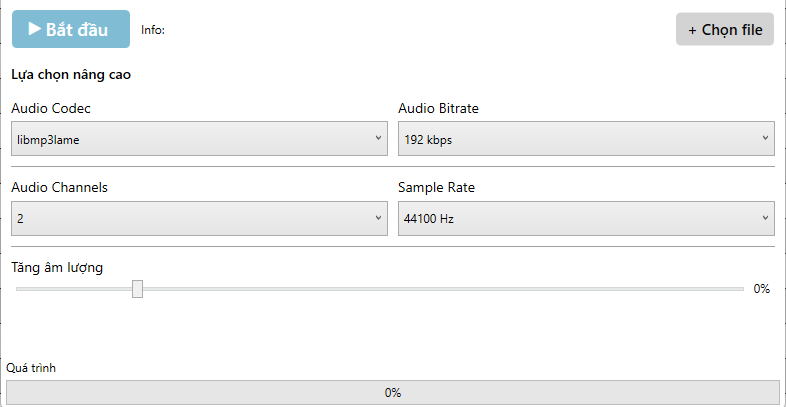
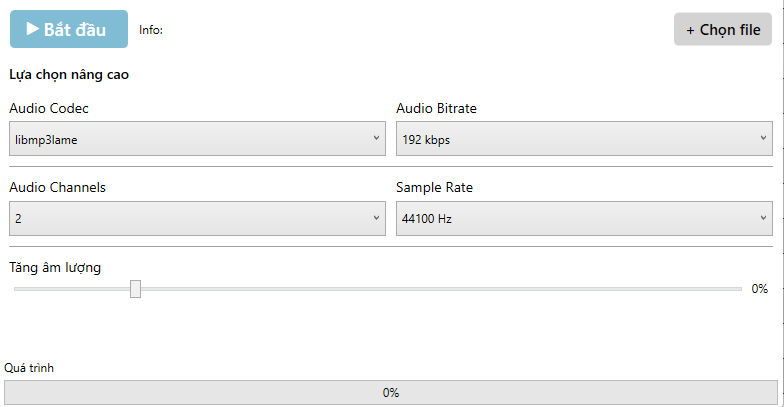
edit numer titile

diff --git a/docs/tutorial-basics/6-review-manga.md b/docs/tutorial-basics/6-review-manga.md
@@ -10,12 +10,12 @@ Tạo video từ ảnh của 1 chap *truyện tranh* hoặc ảnh bất kỳ
 
 #### *Hình 1 - Giao diện review truyện tranh*
 
-## I. Tạo item
-###    1. Add item
+## 1. Tạo item
+###    1.1 Add item
         - Menu **Công cụ** -> **Thêm item**
             - Nhập số lượng item cần thêm
             - Click OK
-###     2. Text
+###     1.2 Text
         - Click vào từng item ở bảng list item
         - Tạo text
             - Lấy text từ ảnh (nhập thủ công *hoặc* nhận diện text bằng AI)
@@ -24,8 +24,8 @@ Tạo video từ ảnh của 1 chap *truyện tranh* hoặc ảnh bất kỳ
 :::note[Chú ý]
 - Sau khi dịch, bạn cần review lại bản dịch để confirm lại
 :::
-## II. Edit ảnh
-###     1. Vẽ khung chat
+## 2. Edit ảnh
+###     2.1 Bằng VMVA
         - Ở hình 1, click vào item cần edit
         - Click **Vẽ khung chat**
 
@@ -43,30 +43,32 @@ Tạo video từ ảnh của 1 chap *truyện tranh* hoặc ảnh bất kỳ
  - Khung chat sau sẽ đè lên khung chat phía trước nếu bạn di chuyển chúng vào vị trí của nhau
 :::
 
-## III. Tạo audio
+###     2.2 Bằng các phần mềm khác
+        - Bạn có thể edit ảnh bằng các phần mềm khác, copy và paste trực tiếp vào item đang làm việc
 
-###     1. Tải audio
-        - Click vào item ở hình 1, ở trường **Chọn giọng TTK**, click vào ⋮ và áp dụng cho *tất cả* hoặc chọn *các item* tùy ý
-        - Chọn clone nếu như bạn muốn custom sang 1 giọng khác
-        - Menu **Audio** -> **Download Audio**
-        - Tải audio: bạn có thể chọn tốc độ phù hợp với nhu cầu của mình để download
+## 3. Audio
 
-        ![Lyric](/img/common/download-audio.png)
+- Click vào item ở hình 1, ở trường **Chọn giọng TTK**, click vào ⋮ và áp dụng cho *tất cả* hoặc chọn *các item* tùy ý
+- Chọn clone nếu như bạn muốn custom sang 1 giọng khác
+- Menu **Audio** -> **Download Audio**
+- Tải audio: bạn có thể chọn tốc độ phù hợp với nhu cầu của mình để download
 
-        **Hình 3 - Cửa sổ download audio**
+![Lyric](/img/common/download-audio.png)
 
-## IV. Export video
-###     1. Chọn hiệu ứng cho từng ảnh
+**Hình 3 - Cửa sổ download audio**
+
+## 4. Export video
+###     4.1 Chọn hiệu ứng cho từng ảnh
         - None
         - Left slide
         - Right slide
         - Zoom
         - Scroll
         - ...
-###     2. Setting
+###     4.2 Setting
         - Chọn background, opacity
         - Chọn nhạc nền, âm lượng
-###     3. Export
+###     4.3 Export
         - Chọn sử dụng GPU hoặc không
         - ~~Tách vocal~~ (không khả dụng ở template này)
 

diff --git a/docs/tutorial-basics/5-thuyet-minh.md b/docs/tutorial-basics/5-thuyet-minh.md
@@ -10,9 +10,9 @@ Dịch và lồng tiếng phim từ ngôn ngữ này <i class="fa-solid fa-arrow
 
 #### *Hình 1 - Giao diện template thuyết minh phim*
 
-## I. Dịch phim
+## 1. Dịch phim
 
-### 1. Lấy lyric 
+### 1.1 Lấy lyric 
     - Tự động
         - Ở Menu **Lyric gốc** -> **Tạo tự động**. Thư viện sẽ tạo generate ra file `.srt` và tự động import vào project
     - Upload từ máy tính
@@ -20,7 +20,7 @@ Dịch và lồng tiếng phim từ ngôn ngữ này <i class="fa-solid fa-arrow
 :::note    
 Chương trình sẽ xóa bỏ 1 số dòng bị duplicate <i class="fa-solid fa-arrow-right"></i> tránh audio bị đè lên nhau
 :::
-### 2. Dịch
+### 1.2 Dịch
     - Dịch tự động: **Lyric dịch** -> **Dịch**
         - Chat GPT (Recommend)
         - Microsoft
@@ -32,9 +32,9 @@ Sau khi dịch, bạn cần review lại bản dịch để confirm lại
 - Tìm kiếm và thay thế (Vào menu *Lyric dịch* <i class="fa-solid fa-arrow-right"></i> *Tìm kiếm và thay thế*)
 :::
 
-## II. Lồng tiếng
+## 2. Lồng tiếng
 
-### 1. Tải audio 
+### 2.1 Tải audio 
 
     - Click vào item ở hình 1, ở trường **Chọn giọng TTK**, click vào ⋮ và áp dụng cho *tất cả* hoặc chọn *các item* tùy ý
     - Có thể chọn clone sau khi tạo audio
@@ -50,7 +50,7 @@ Sau khi dịch, bạn cần review lại bản dịch để confirm lại
 - Ở phía dưới - trái <i class="fa-solid fa-arrow-right"></i> trạng thái phần trăm (%) số lượng item đã được dịch và số lượng item có audio
 :::
 
-### 2. Export video
+### 2.2 Export video
 - Chọn option xử lý audio (Ở phần *Cài đặt chung* trên hình 1)
     - Mặc định
     - Tự điều chỉnh tốc độ âm thanh
@@ -67,7 +67,7 @@ Sau khi dịch, bạn cần review lại bản dịch để confirm lại
 **Hình 3 - Cửa sổ export video**
 
 
-## III. Ví dụ ngắn
+## 3. Ví dụ ngắn
 
 
 <iframe width="560" height="315"

diff --git a/docs/tutorial-basics/8-rewrite-ai.md b/docs/tutorial-basics/8-rewrite-ai.md
@@ -10,16 +10,18 @@ Viết lại câu chuyện theo góc nhìn, phong cách khác
 
 #### *Hình 1 - Giao diện tạo video rewrite*
 
-## I. Tạo subtitle
+## 1. Tạo subtitle
 
 Là bước cần thiết để có thể viết lại
-### 1. Tạo tự động
+### 1.1 Tạo tự động
+
     - Click vào menu **Lyric gốc** -> **Tạo tự động**
-### 2. Tạo thủ công
+### 1.2 Tạo thủ công
+
     - Click vào menu **Lyric gốc** -> **Tải lyric từ máy tính**
         
 
-## II. Edit style
+## 2. Edit style
     
     - Ở hình 1, click vào tab **Cài đặt Re-write**
     - Chọn phong cách viết lại
@@ -33,8 +35,8 @@ Là bước cần thiết để có thể viết lại
 - Có thể dùng các công cụ AI như ChatGPT, Gemeni để hỗ trợ
 :::
 
-## III. Viết lại
-###     1. Viết lại
+## 3. Viết lại
+###     3.1 Viết lại
         - Ở phần cài đặt Re-write, chọn style viết lại theo ý của bạn
             - Hài
             - Lãng mạng
@@ -43,12 +45,12 @@ Là bước cần thiết để có thể viết lại
             - ...
         - Ở mục 2, click vào menu **Công cụ** -> **Viết lại**
         - Sau khi xong, có thể dịch sang ngôn ngữ khác hoặc copy sang bản dịch
-###     2. Download audio
+###     3.2 Download audio
         - Click vào item ở hình 1 (mục 2), ở trường **Chọn giọng TTK**, click vào ⋮ và áp dụng cho *tất cả* hoặc chọn *các item* tùy ý
         - Chọn giọng clone nếu như bạn mong muốn
         - Download audio
 
-## IV. Export video
+## 4. Export video
     - Chọn sử dụng GPU hoặc không
     - Tách vocal
 
@@ -57,7 +59,7 @@ Là bước cần thiết để có thể viết lại
     **Hình 3 - Cửa sổ export video**
 
 
-## VI. Ví dụ
+## 5. Ví dụ
 
 
 <iframe width="560" height="315"

diff --git a/docs/tutorial-basics/9-anti-copyright.md b/docs/tutorial-basics/9-anti-copyright.md
@@ -10,12 +10,12 @@ Thêm filter cho **video dọc** -> **video ngang**
 
 #### *Hình 1 - Giao diện tạo video rewrite*
 
-## I. Cắt video
-1. Cắt nhỏ
+## 1. Cắt video
+### 1.1. Cắt nhỏ
     - Chương trình sẽ cắt video gốc thành các chuỗi video nhỏ dài **180s, 30s** liên tiếp nhau
     - Thời gian cắt này có thể chỉnh sửa ở phần cài đặt
     - click vào menu **Video** -> **Cắt nhỏ**
-2. Edit filter
+### 1.2. Edit filter
     - Opacity
         - Chỉnh sửa độ mờ của video gốc
     - Zoom
@@ -26,7 +26,7 @@ Thêm filter cho **video dọc** -> **video ngang**
         - Chọn kích thước
         - Chọn màu
 
-## II. Cài đặt chung
+## 2. Cài đặt chung
 
 - Custom độ dài của video ngắn, dài
 - Điều chỉnh hệ số zoom của layer nền
@@ -36,7 +36,7 @@ Thêm filter cho **video dọc** -> **video ngang**
 - Nếu chương trình chạy tốn nhiều RAM (Vào Task Manager để kiểm tra) <i class="fa-solid fa-arrow-right"></i> Hãy giảm hệ số zoom của layer nền
 :::
 
-## III. Export video
+## 3. Export video
     - Chọn sử dụng GPU hoặc không
     - ~~Tách vocal~~ (không khả dụng ở template này)
 
@@ -44,7 +44,7 @@ Thêm filter cho **video dọc** -> **video ngang**
 
     **Hình 3 - Cửa sổ export video**
 
-## IV. Ví dụ
+## 4. Ví dụ
 
 
 <iframe width="560" height="315"

diff --git a/docs/tutorial-basics/7-lyric.md b/docs/tutorial-basics/7-lyric.md
@@ -10,20 +10,20 @@ Làm lyric cho video, audio và custom font chữ
 
 #### *Hình 1 - Giao diện tạo video lyric*
 
-## I. Tạo subtitle
+## 1. Tạo subtitle
 
-###     1. Tạo tự động
-        - Chọn ngôn ngữ của video
+###     1.1 Tạo tự động
+        - Ở hình 1, chọn ngôn ngữ của video
         - Click vào button **Generate**
-###     2. Upload từ máy tính
+###     1.2 Upload từ máy tính
         - Click vào menu **Lyric** <i class="fa-solid fa-arrow-right"></i> **Upload lyric**
 
 :::tip[Mẹo]
 - Có thể xóa lyric và upload lại nếu thấy bị sai
-- Click vào từng item để sửa trực tiếp
+- Click vào từng item để sửa trực tiếp nội dung của lyric
 :::
 
-## II. Edit style
+## 2. Edit style
     
     - Ở hình 1, click vào tab **Lyric style** -> **Cài đặt**
     - Chỉnh sửa style theo ý của bạn và chọn **OK**
@@ -38,7 +38,7 @@ Làm lyric cho video, audio và custom font chữ
     *Hình 2 - Cửa sổ sửa style lyric*
 
 
-## III. Export video
+## 3. Export video
     
     - Chọn sử dụng GPU hoặc không
     - ~~Tách vocal~~ (không khả dụng ở template này)
@@ -47,7 +47,7 @@ Làm lyric cho video, audio và custom font chữ
 
     **Hình 3 - Cửa sổ export video**
 
-## IV. Ví dụ
+## 4. Ví dụ
 
 
 <iframe width="560" height="315"

diff --git a/docs/tutorial-extras/2-concat-media.md b/docs/tutorial-extras/2-concat-media.md
@@ -4,15 +4,19 @@ sidebar_position: 2
 
 # Nối video/audio
 
-Dùng để nối <i class="fa-solid fa-link"></i> video/audio lại với nhau
+Dùng để nối <i class="fa-solid fa-link"></i> *video/audio* lại với nhau thành 1 file duy nhất
 
-## I. Hướng dẫn
+## Hướng dẫn
 
 Vào menu **Tiện ích** <i class="fa-solid fa-arrow-right"></i> **Nối file**
 
 - Thêm các file cần thiết để nối với nhau
-- Ở bảng danh sách file, sẽ hiển thị thông tin của các file vừa add
-- Bạn có thể sắp xếp lại thứ tự các file
+- Ở bảng danh sách file, sẽ hiển thị thông tin của các file vừa thêm
+    - Tên
+    - Codec
+    - Kích thước
+    - Thời lượng
+- Bạn có thể sắp xếp lại thứ tự các file bằng cách click vào ⋮ và sắp xếp theo ý muốn
 - Click **Bắt đầu**, đặt tên để lưu và chọn **OK**
 
 ![Concat](/img/extra/concat-ui.png)
@@ -22,6 +26,7 @@ Vào menu **Tiện ích** <i class="fa-solid fa-arrow-right"></i> **Nối file**
 :::tip
 - Chọn sử dụng GPU nếu bạn nối video
 - Các file cùng thông số sẽ giảm thời gian nối
+- Chỉ nối được video với video, audio với audio
 :::
 
 

diff --git a/docs/intro.md b/docs/intro.md
@@ -47,3 +47,21 @@ Các thư viện cần thiết để chạy project full tính năng
 :::tip[Mẹo]
 Bạn có thể mở đồng thời nhiều `instance` để làm việc với nhiều project cùng 1 lúc
 :::
+
+## 5. Tài khoản
+
+- Sẽ chia làm 2 loại tài khoản
+    - Free
+    - Pro <i class="fa-regular fa-star"></i>
+
+
+| Tính năng                | Free        | Pro        |
+|--------------------------|-------------|------------|
+| Dùng tất cả các giọng nói| ✅          | ✅        |
+| Cập nhật thường xuyên    | ✅          | ✅        |
+| Dùng tất cả các giọng nói| ✅          | ✅        |
+| Support 24/7             | ❌          | ✅        |
+| Dùng tất cả các template | ❌          | ✅        |
+
+- Cách nâng cấp Free <i class="fa-solid fa-arrow-right"></i> Pro
+    - Liên hệ với admin qua discord: https://discord.com/users/877736628616061031

diff --git a/docs/tutorial-basics/1-login.md b/docs/tutorial-basics/1-login.md
@@ -8,7 +8,10 @@ Sử dụng **user, password** và **computer id** máy để đăng nhập
 
 - Lấy computer id của máy gửi cho admin computer id để đăng ký khoản
 - Đăng nhập
-- P/s: mỗi tài khoản chỉ dùng được ở trên 1 máy tính
+
+:::note[Chú ý]
+ mỗi tài khoản chỉ dùng được ở trên 1 máy tính
+ :::
 
 ## 1. Đăng ký tài khoản
 
@@ -34,6 +37,6 @@ Dùng **user** và **password** để đăng nhập
 
 
 :::note[Chú ý]
-- App sẽ tự động lưu thông tin user, password (ở máy tính của bạn, có mã hóa và không chia sẻ với bất kỳ ai)
+- App sẽ tự động lưu thông tin *user, password* ở máy tính của bạn, có mã hóa(AES) và **không chia sẻ** với bất kỳ ai
 - App sẽ tự động lưu phiên đăng nhập (mặc định trong vòng 7 ngày)
 :::

diff --git a/docs/tutorial-extras/4-download-video-youtube.md b/docs/tutorial-extras/4-download-video-youtube.md
@@ -6,7 +6,7 @@ sidebar_position: 4
 
 Download video từ youtube <i class="fa-brands fa-youtube"></i> [develop*]
 
-## I. Hướng dẫn
+## Hướng dẫn
 
 Vào menu **Tiện ích** <i class="fa-solid fa-arrow-right"></i> **Download video từ youtube**
 
